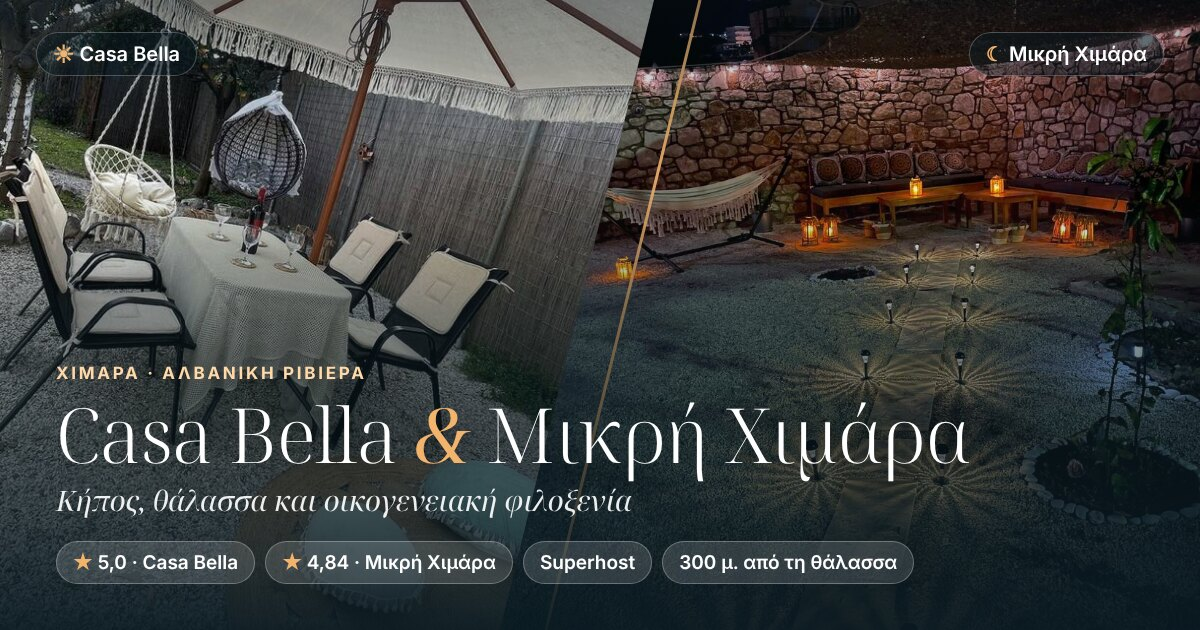
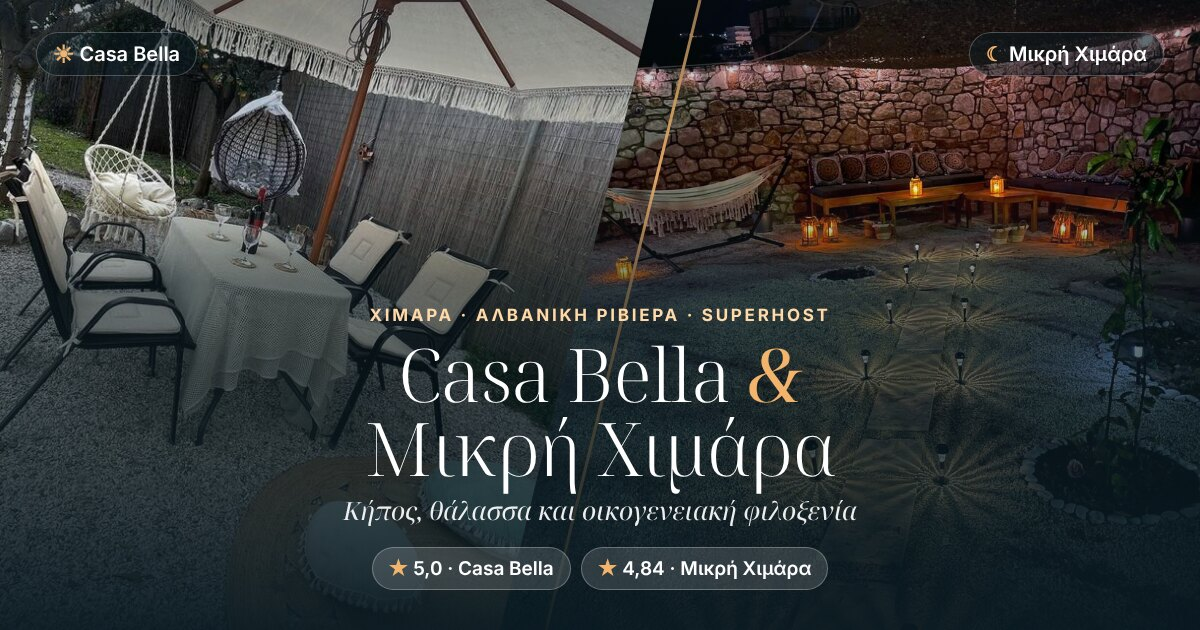
Make link-preview image readable when apps crop it square
Claude-Session: https://claude.ai/code/session_012MZURqQAf3gL23iF2Phir7

diff --git a/index.html b/index.html
@@ -12,8 +12,8 @@
 <meta property="og:url" content="https://fragkoulis.is-a.dev/">
 <meta property="og:title" content="Casa Bella & Μικρή Χιμάρα · Χιμάρα">
 <meta property="og:description" content="Κήπος, θάλασσα και οικογενειακή φιλοξενία στην Αλβανική Ριβιέρα. Δύο καταλύματα από τον Superhost Pol, λίγα βήματα από την παραλία.">
-<meta property="og:image" content="https://fragkoulis.is-a.dev/assets/og-image.jpg?v=2">
-<meta property="og:image:secure_url" content="https://fragkoulis.is-a.dev/assets/og-image.jpg?v=2">
+<meta property="og:image" content="https://fragkoulis.is-a.dev/assets/og-image.jpg?v=3">
+<meta property="og:image:secure_url" content="https://fragkoulis.is-a.dev/assets/og-image.jpg?v=3">
 <meta property="og:image:type" content="image/jpeg">
 <meta property="og:image:width" content="1200">
 <meta property="og:image:height" content="630">
@@ -21,7 +21,7 @@
 <meta name="twitter:card" content="summary_large_image">
 <meta name="twitter:title" content="Casa Bella & Μικρή Χιμάρα · Χιμάρα">
 <meta name="twitter:description" content="Κήπος, θάλασσα και οικογενειακή φιλοξενία στην Αλβανική Ριβιέρα.">
-<meta name="twitter:image" content="https://fragkoulis.is-a.dev/assets/og-image.jpg?v=2">
+<meta name="twitter:image" content="https://fragkoulis.is-a.dev/assets/og-image.jpg?v=3">
 <meta name="theme-color" content="#0f2f3a">
 <link rel="manifest" href="manifest.webmanifest">
 <link rel="icon" href="assets/icons/icon-192.png">
